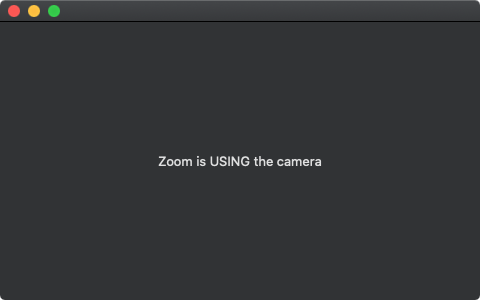
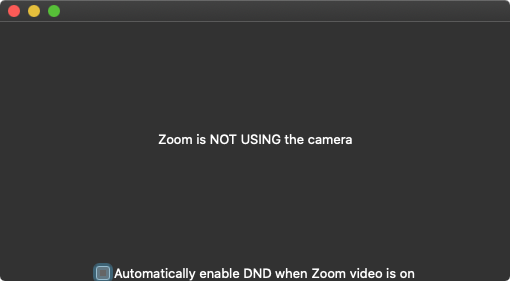
Update readme

Changed region(s): [[0.3125, 0.4555, 0.7188, 0.5694], [0.1562, 0.9395, 0.8125, 1.0], [0.0, 0.0, 1.0, 0.0854]]

diff --git a/README.md b/README.md
@@ -1,7 +1,8 @@
 # isZoomUsingCamera
 
 Simple SwiftUI app that checks if Zoom is actively using the camera.
-Future work includes automatically setting Do Not Disturb when the camera usage changes.
+
+Can automatically toggle Do Not Disturb based on when zoom is using the camera.
 
 ![screenshot](Resources/screenshot.png)
 
